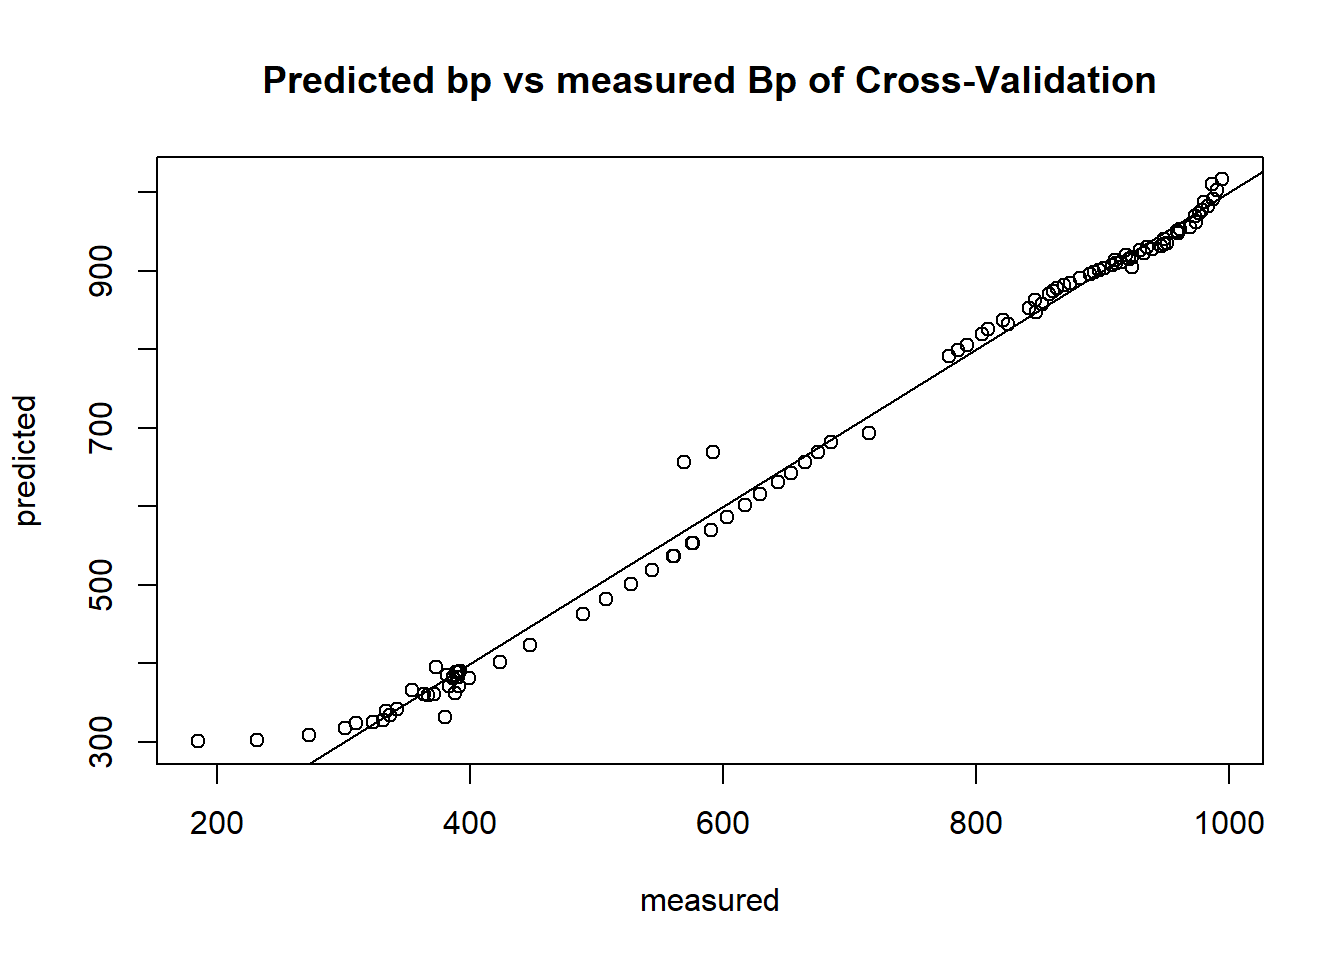
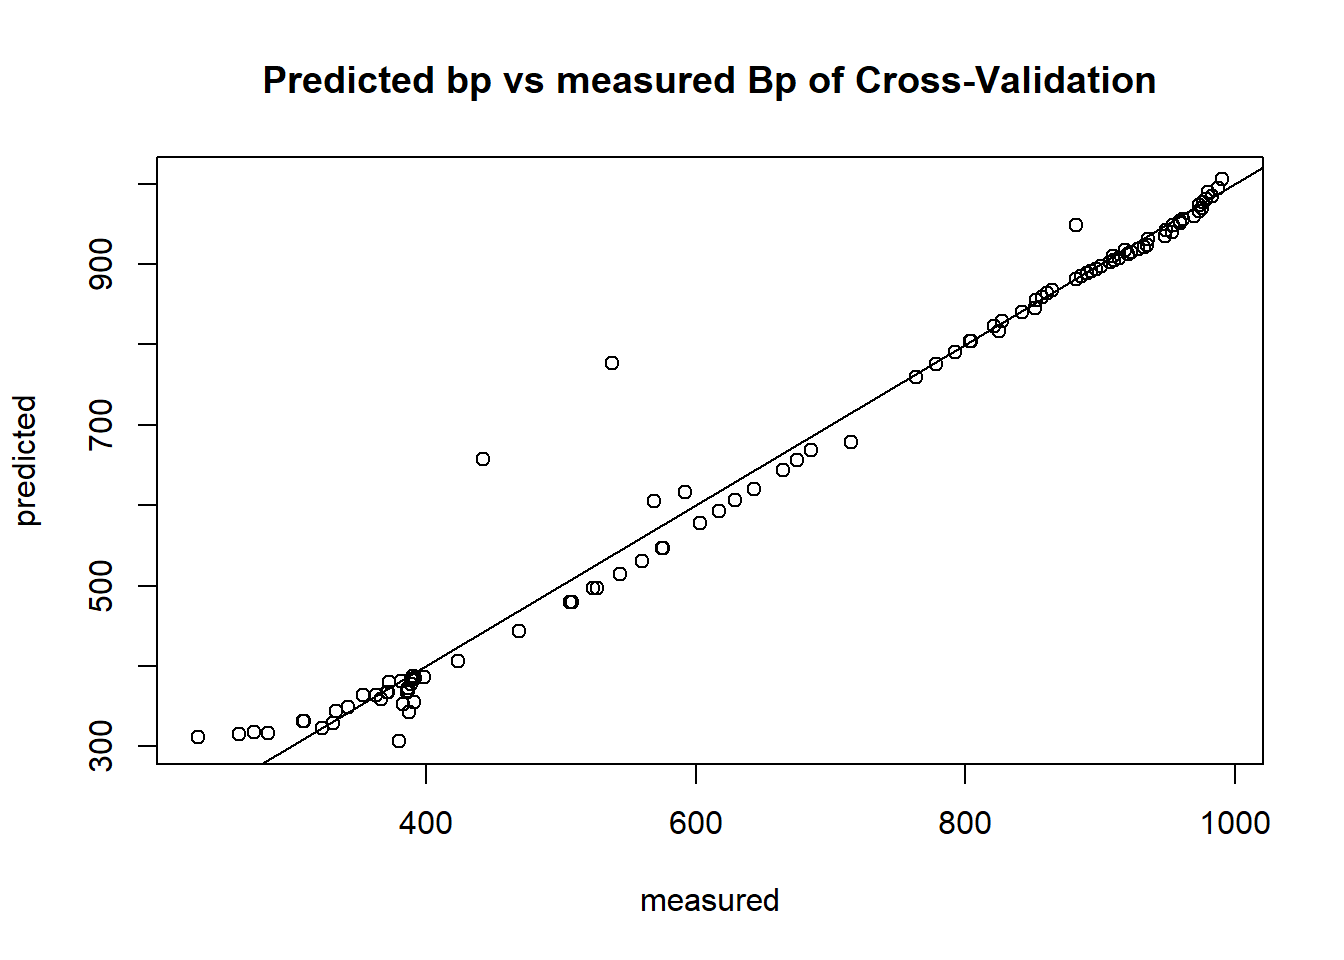
Created Final html version of  Rmarkdown for assignment

diff --git a/Rmarkdown_Final/_site/index.html b/Rmarkdown_Final/_site/index.html
@@ -295,7 +295,7 @@ $(document).ready(function () {
 
 
 <div id="loading-in-all-the-required-packages" class="section level1">
-<h1>Loading in all the required packages</h1>
+<h1>loading in all the required packages</h1>
 <pre class="r"><code>#Install packages if needed and load, or just load packages
 #Required packages are WikidataQueryServiceR to obtain the data from wikidata
 #rJAVA and rcdk are required to predict the pb based on the SMILES
@@ -322,10 +322,10 @@ for (i in requiredpackages) {
   library(pls)</code></pre>
 </div>
 <div id="loading-in-the-data-using-sparql" class="section level1">
-<h1>Loading in the data using SPARQL</h1>
+<h1>loading in the data using SPARQL</h1>
 </div>
 <div id="requesting-boiling-point-of-all-alkanes-with-units-and-smiles-data" class="section level1">
-<h1>Requesting boiling point of all alkanes with units and SMILES data</h1>
+<h1>requesting boiling point of all alkanes with units and SMILES data</h1>
 <pre class="r"><code>sparql_query &lt;- &#39;SELECT DISTINCT ?comp ?compLabel ?bp ?bpUnitLabel ?SMILE WHERE {
     ?comp wdt:P31/wdt:P279* wd:Q41581 ;
   p:P2102 [
@@ -339,7 +339,7 @@ results = query_wikidata(sparql_query)</code></pre>
 <pre><code>## 134 rows were returned by WDQS</code></pre>
 </div>
 <div id="data-preprocessing-and-control-remove-brackets-from-smiles-string-for-data-control" class="section level1">
-<h1>Data preprocessing and control, remove brackets from SMILES string for data control</h1>
+<h1>data preprocessing and control, remove brackets from SMILES string for data control</h1>
 <pre class="r"><code>#get index of colnumbers to make SMILES and bp selection
 index_SMILES &lt;- which(colnames(results)==&quot;SMILE&quot;)
 index_bp &lt;- which(colnames(results) ==&quot;bp&quot;)
@@ -358,10 +358,12 @@ results[,5] &lt;- gsub(pattern, replacement, results[,index_SMILES])
 #plot the amount of C&#39;s against bp to see releation and look for outlayers
 plot(results[order(nchar(results[,index_SMILES])),index_bp], xlab=&quot;alkane length&quot;, ylab=&quot;bp&quot;)</code></pre>
 <p><img src="index_files/figure-html/unnamed-chunk-2-1.png" width="672" /></p>
-<pre class="r"><code>#it looks from the plot that the units are not all equal</code></pre>
+</div>
+<div id="it-looks-from-the-plot-that-the-units-are-not-all-equal" class="section level1">
+<h1>it looks from the plot that the units are not all equal</h1>
 </div>
 <div id="changing-all-of-the-units-kelvintc273.15-tf-459.67-x-59" class="section level1">
-<h1>Changing all of the units kelvin(T(C)+273.15, T(F) + 459.67) x 5/9)</h1>
+<h1>changing all of the units kelvin(T(C)+273.15, T(F) + 459.67) x 5/9)</h1>
 <pre class="r"><code>#change Celsius to Kelvin
 for(i in 1:nrow(results)){
   if (results[i,index_bpUnit] == &quot;degree Celsius&quot;){
@@ -378,13 +380,13 @@ for(i in 1:nrow(results)){
 }</code></pre>
 </div>
 <div id="data-control-after-changing-temperatures-to-celsius" class="section level1">
-<h1>Data control after changing temperatures to celsius</h1>
+<h1>data control after changing temperatures to celsius</h1>
 <pre class="r"><code>#plot again with all units converted to kelvin
 plot(results[order(nchar(results[,index_SMILES])),index_bp], xlab=&quot;alkane length&quot;, ylab=&quot;bp&quot;)</code></pre>
 <p><img src="index_files/figure-html/unnamed-chunk-4-1.png" width="672" /></p>
 </div>
 <div id="get-all-the-molecular-information-from-the-rcdk-package-for-the-alkanes-based-on-smiles" class="section level1">
-<h1>Get all the molecular information from the rcdk package for the alkanes based on SMILES</h1>
+<h1>get all the molecular information from the rcdk package for the alkanes based on SMILES</h1>
 <pre class="r"><code>#reassign the orignal SMILES to the results
 results[,index_SMILES] &lt;- results_SMILES
 
@@ -400,13 +402,13 @@ dn &lt;- get.desc.names(dc[3])
 allDescs &lt;- eval.desc(results.rcdk, dn)</code></pre>
 </div>
 <div id="creating-data-object-to-use-for-plsr-model" class="section level1">
-<h1>Creating data object to use for plsr model</h1>
+<h1>creating data object to use for plsr model</h1>
 <pre class="r"><code>#create a df with bp and all features to use for plsr model
 results.plsr &lt;- cbind(results$bp, allDescs)
 colnames(results.plsr)[1] &lt;- &#39;bp&#39;
 
 #removing NAs and NANs
-results.plsr &lt;- results.plsr[ , -which(names(results.plsr) %in% c(&quot;VABC&quot;,&quot;geomShape&quot;))]</code></pre>
+results.plsr &lt;- results.plsr[ , -which(names(results.plsr) %in% c(&quot;VABC&quot;,&quot;geomShape&quot;,&quot;Kier3&quot;,&quot;Toposhape&quot;))]</code></pre>
 </div>
 <div id="splitting-data-into-a-test-and-training-set" class="section level1">
 <h1>Splitting data into a test and training set</h1>
@@ -414,7 +416,7 @@ results.plsr &lt;- results.plsr[ , -which(names(results.plsr) %in% c(&quot;VABC&
 smp_size &lt;- floor(.80 * nrow(results.plsr))
 
 ## set the seed to get the same test and training sets when rerunning the code
-set.seed(123)
+set.seed(2)
 train_ind &lt;- sample(seq_len(nrow(results.plsr)), size = smp_size)
 
 train &lt;- results.plsr[train_ind, ]
@@ -425,18 +427,18 @@ test &lt;- results.plsr[-train_ind, ]</code></pre>
 <pre class="r"><code>bp.plsr &lt;- plsr(bp ~. , data=train, validation = &quot;LOO&quot;, ncomp=4)</code></pre>
 </div>
 <div id="testing-the-models-accuracy-on-the-test-data-set" class="section level1">
-<h1>Testing the models accuracy on the test data set</h1>
+<h1>testing the models accuracy on the test data set</h1>
 <pre class="r"><code>#select column containing bp
 bp_index &lt;- which(colnames(test) == &quot;bp&quot;)
 Prediction &lt;- RMSEP(bp.plsr, newdata=test)
 #compare predicted bp&#39;s to actual bp&#39;s and look at the RMSEP
 Prediction</code></pre>
 <pre><code>## (Intercept)      1 comps      2 comps      3 comps      4 comps  
-##      256.64       152.23        74.74        71.22        66.33</code></pre>
+##      263.99       178.99        81.19        28.08        26.21</code></pre>
 <pre class="r"><code>#RMSEP is 46.8 at time of running</code></pre>
 </div>
 <div id="plotting-predicted-boiling-ponts-against-actual-boiling-points" class="section level1">
-<h1>Plotting predicted boiling ponts against actual boiling points</h1>
+<h1>plotting predicted boiling ponts against actual boiling points</h1>
 <pre class="r"><code>#plot the predicted values against the measured values for the corss-validated values
 predplot(bp.plsr, main = &quot;Predicted bp vs measured Bp of Cross-Validation&quot;)
 abline(a = 0, b = 1)</code></pre>
